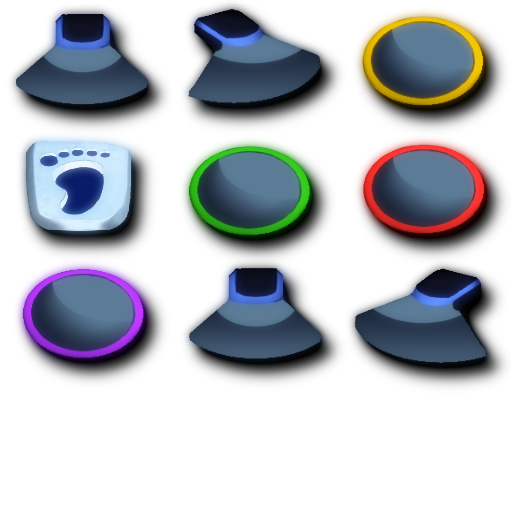
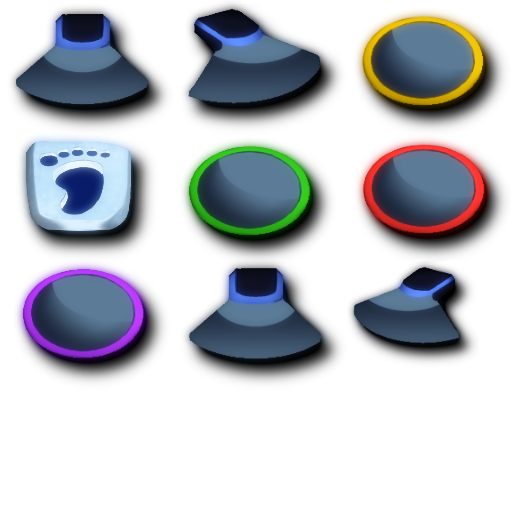
#39822 adjusted drum RD pad position/size

Changed region(s): [[0.6875, 0.5, 1.0, 0.75]]

diff --git a/DTXMania/コード/ステージ/07.演奏/ドラム画面/CAct演奏Drumsパッド.cs b/DTXMania/コード/ステージ/07.演奏/ドラム画面/CAct演奏Drumsパッド.cs
@@ -143,6 +143,10 @@ namespace DTXMania
 					int x = CDTXMania.Instance.ConfigIni.GetLaneX(EnumConverter.LaneFromPad(i)) +
 							(CDTXMania.Instance.ConfigIni.GetLaneW(EnumConverter.LaneFromPad(i)) / 2 -
 							CDTXMania.Instance.Coordinates.ImgDrPad[i].W / 2);
+					if (i == EPad.RD)
+					{
+						x += 50;
+					}
 					int yoffset = CDTXMania.Instance.Coordinates.DrPadOffset[i].Y;
 					int y = (CDTXMania.Instance.ConfigIni.bReverse.Drums ?
 						 SampleFramework.GameWindowSize.Height - CDTXMania.Instance.Coordinates.DrPad.Y - yoffset - rc.Height :

diff --git a/DTXMania/コード/全体/Coordinates.cs b/DTXMania/コード/全体/Coordinates.cs
@@ -321,7 +321,7 @@ namespace DTXMania.Coordinates
 			DrPadOffset.LT = new CY(15);
 			DrPadOffset.FT = new CY(30);
 			DrPadOffset.CY = new CY(15);
-			DrPadOffset.RD = new CY(80);
+			DrPadOffset.RD = new CY(50);
 			DrPad = new CY(930);
 
 			Instrument = new STDGBSValue<CW>();
